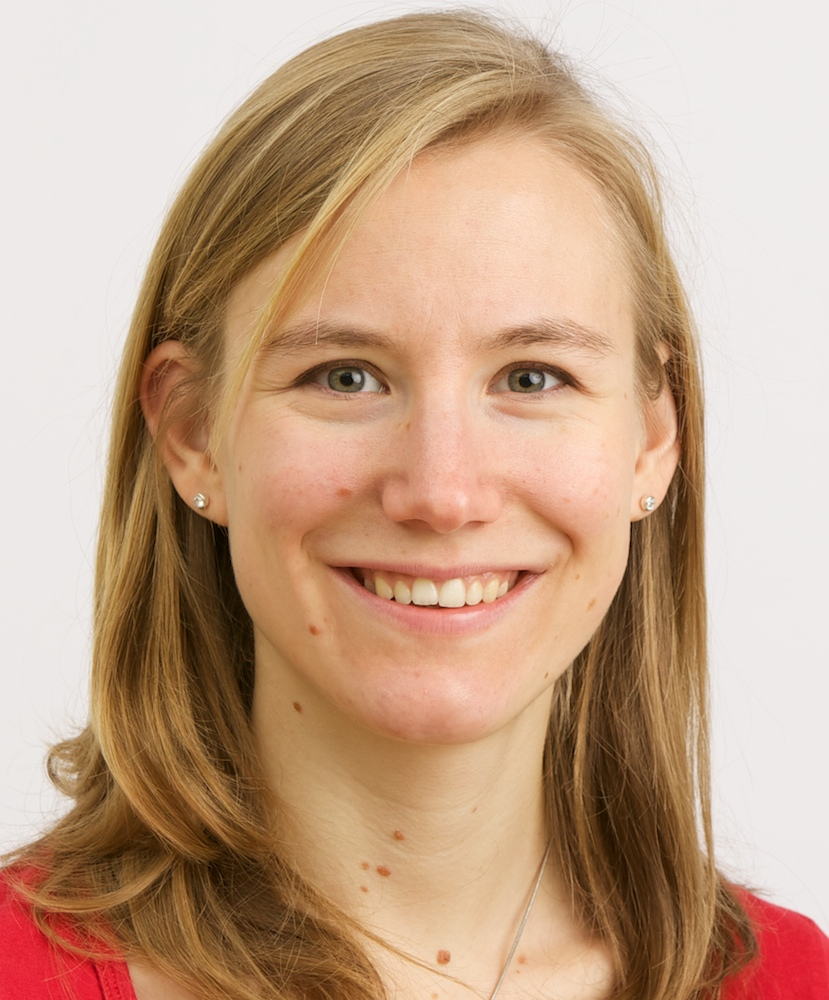
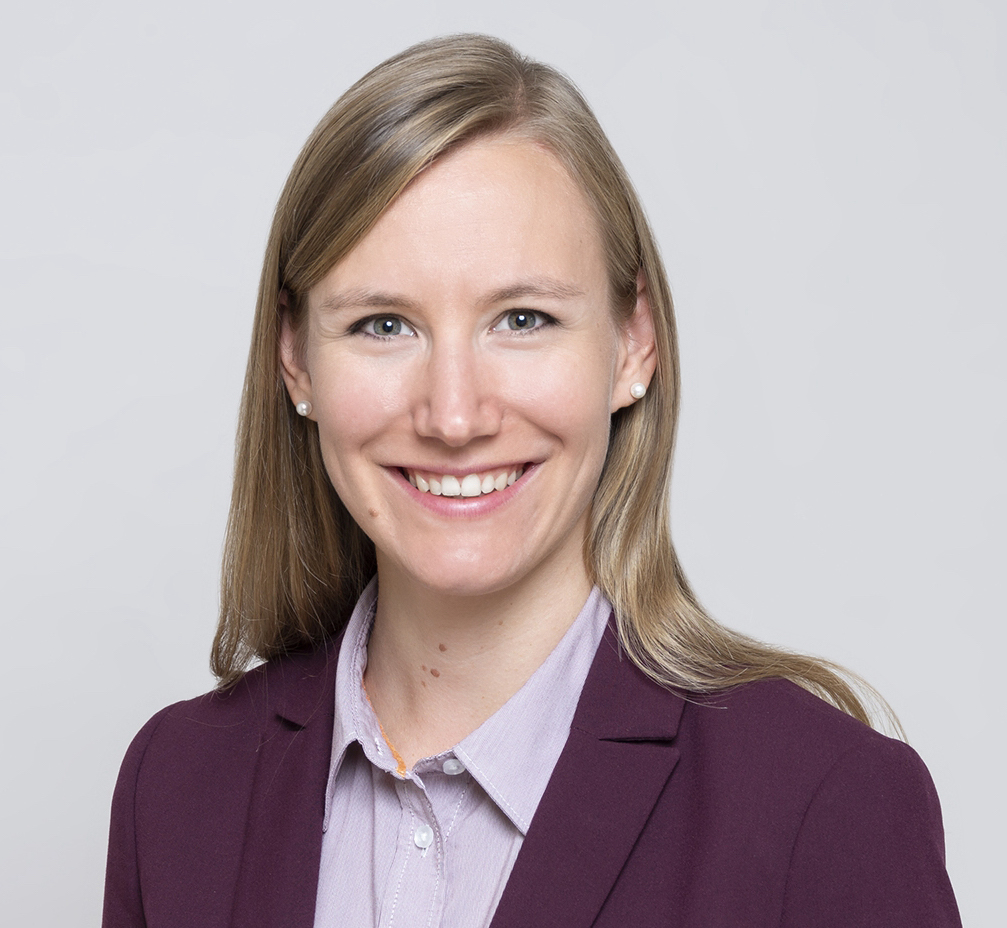
new picture and CV

diff --git a/index.html b/index.html
@@ -58,7 +58,7 @@
 						<!-- One -->
 							<section id="one" class="wrapper spotlight style1">
 								<div class="inner">
-									<a href="about.html" class="image"><img src="images/Index_portrait.png" alt="" /></a>
+									<a href="about.html" class="image"><img src="images/Index_portrait.jpg" alt="" /></a>
 									<div class="content">
 										<h2 class="major">About me</h2>
 										<p>I am a postdoctoral fellow at Stanford University in Scott Fendorf's <i>Soil and Environmental Biogeochemistry</i> group.</p>
